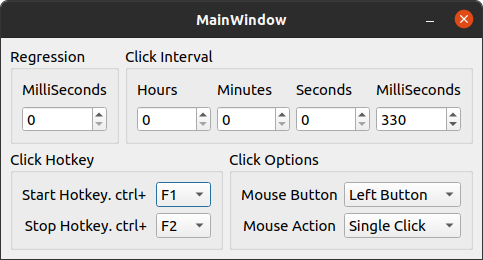
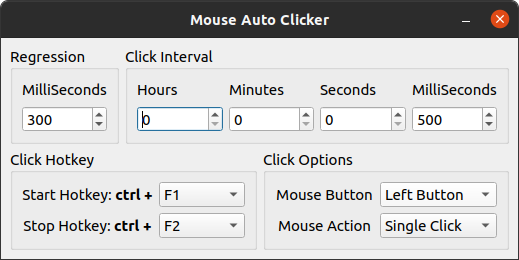
edit some typo and others

diff --git a/auto_clicker/ui/main_window.py b/auto_clicker/ui/main_window.py
@@ -1,6 +1,6 @@
 # -*- coding: utf-8 -*-
 
-# Form implementation generated from reading ui file '../../designer/main_window.ui'
+# Form implementation generated from reading ui file 'designer/main_window.ui'
 #
 # Created by: PyQt5 UI code generator 5.15.4
 #
@@ -14,9 +14,9 @@ from PyQt5 import QtCore, QtGui, QtWidgets
 class Ui_MainWindow(object):
     def setupUi(self, MainWindow):
         MainWindow.setObjectName("MainWindow")
-        MainWindow.resize(481, 221)
-        MainWindow.setMinimumSize(QtCore.QSize(481, 221))
-        MainWindow.setMaximumSize(QtCore.QSize(481, 221))
+        MainWindow.resize(517, 221)
+        MainWindow.setMinimumSize(QtCore.QSize(517, 221))
+        MainWindow.setMaximumSize(QtCore.QSize(517, 221))
         MainWindow.setAnimated(True)
         MainWindow.setTabShape(QtWidgets.QTabWidget.Rounded)
         MainWindow.setDockNestingEnabled(False)
@@ -133,7 +133,7 @@ class Ui_MainWindow(object):
 
     def retranslateUi(self, MainWindow):
         _translate = QtCore.QCoreApplication.translate
-        MainWindow.setWindowTitle(_translate("MainWindow", "MainWindow"))
+        MainWindow.setWindowTitle(_translate("MainWindow", "Mouse Auto Clicker"))
         self.groupBox_2.setTitle(_translate("MainWindow", "Click Interval"))
         self.label_3.setText(_translate("MainWindow", "Seconds"))
         self.label_2.setText(_translate("MainWindow", "Minutes"))
@@ -142,8 +142,8 @@ class Ui_MainWindow(object):
         self.groupBox.setTitle(_translate("MainWindow", "Regression"))
         self.label_5.setText(_translate("MainWindow", "MilliSeconds"))
         self.groupBox_3.setTitle(_translate("MainWindow", "Click Hotkey"))
-        self.label_7.setText(_translate("MainWindow", "<html><head/><body><p align=\"center\">Stop Hotkey. ctrl+</p></body></html>"))
-        self.label_6.setText(_translate("MainWindow", "<html><head/><body><p align=\"center\">Start Hotkey. ctrl+ </p></body></html>"))
+        self.label_7.setText(_translate("MainWindow", "<html><head/><body><p align=\"center\">Stop Hotkey: <span style=\" font-weight:600;\">ctrl +</span></p></body></html>"))
+        self.label_6.setText(_translate("MainWindow", "<html><head/><body><p align=\"center\">Start Hotkey:<span style=\" font-weight:600;\"> ctrl +</span></p></body></html>"))
         self.groupBox_4.setTitle(_translate("MainWindow", "Click Options"))
         self.comboBox_option_mouse_button.setItemText(0, _translate("MainWindow", "Left Button"))
         self.comboBox_option_mouse_button.setItemText(1, _translate("MainWindow", "Right Button"))

diff --git a/README.md b/README.md
@@ -1,8 +1,9 @@
 # Mouse Auto Clicker
 
-Simple GUI linux and windows mouse auto clicker with python3 and PyQt5
+GUI Mouse Auto Clicker for linux with Python3 and PyQt5
 
 ### Installation
+
 ```
 git clone https://github.com/mrmoein/mouse-auto-clicker.git
 cd mouse-auto-clicker
@@ -15,4 +16,5 @@ now search for `Mouse Auto Clicker` app in your desktop launcher.
 > ⚠ IMPORTANT: After the installation please make sure you do not remove the repository. It is required for the desktop shortcut to work.
 
 ### screenshots
+
 ![mouse auto clicker by Moein Aghamirzaei](images/Screenshot.png)
